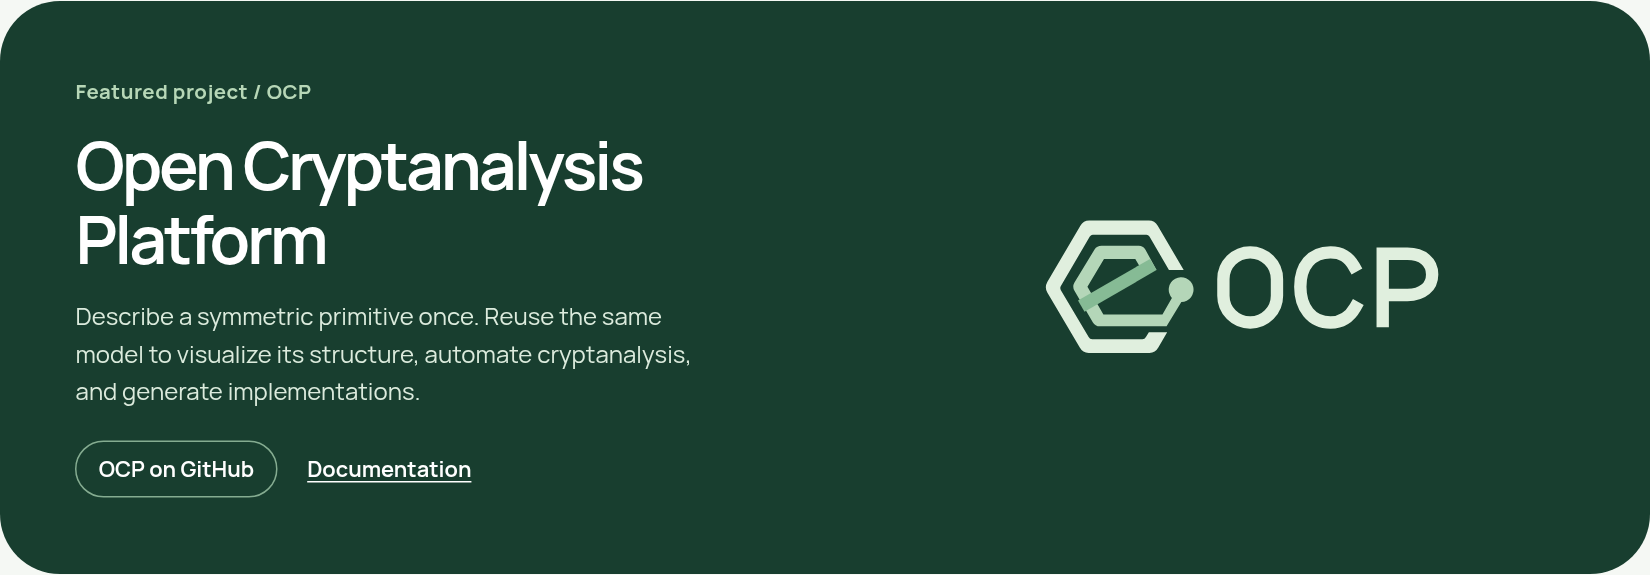
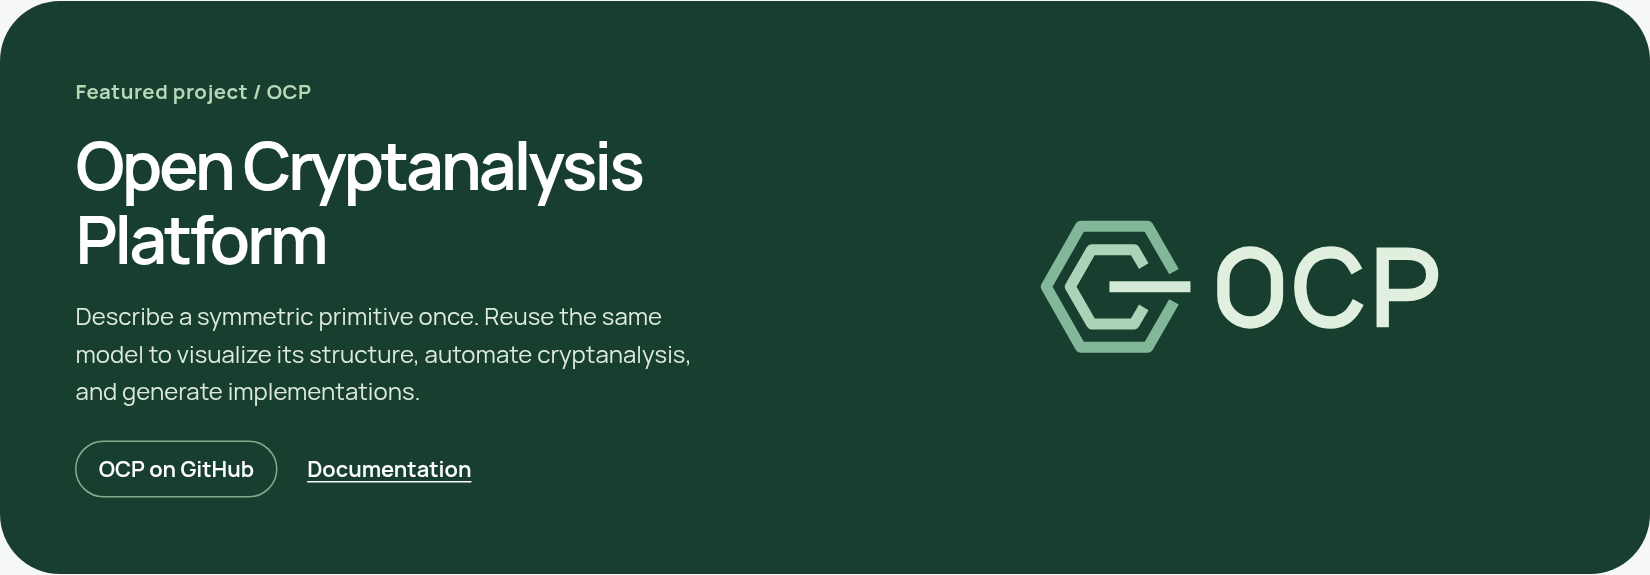
Run a horizontal stroke through the open OCP monogram

Changed region(s): [[0.6182, 0.3843, 0.7418, 0.6209]]

diff --git a/_preview/README.md b/_preview/README.md
@@ -2,9 +2,9 @@
 
 ## OCP logo study
 
-A jade stroke rises at 30° from the lower-left bend of the C to its upper tip. It matches the width of the C and extends past their junction to suggest a tilted P. The project card shows the lighter palette used on the SyLLab homepage.
+A horizontal stroke starts at the center of the C and extends through the gap in the outer O. Each element uses a progressively lighter green.
 
-![SyLLab project card with a three-tone OCP symbol and diagonal](ocp-feature.png)
+![SyLLab project card with the nested O and C and a horizontal stroke](ocp-feature.png)
 
 [View the logo on a light background](ocp-nested-p.svg)
 
